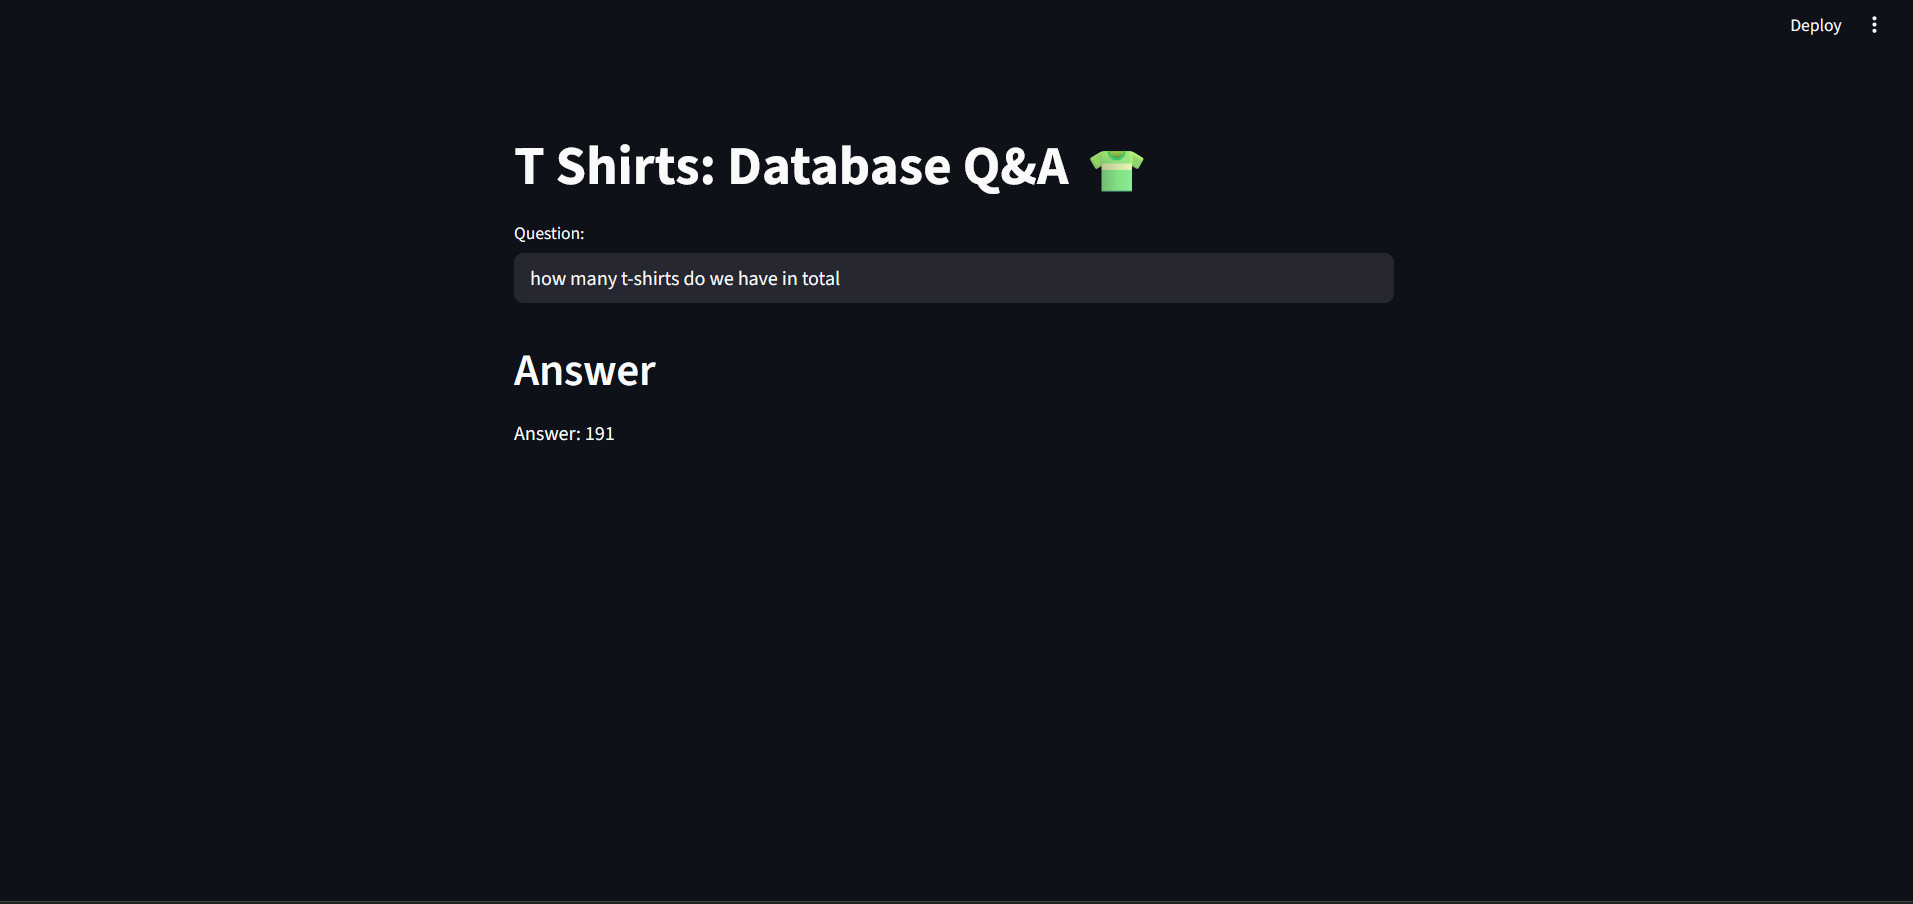
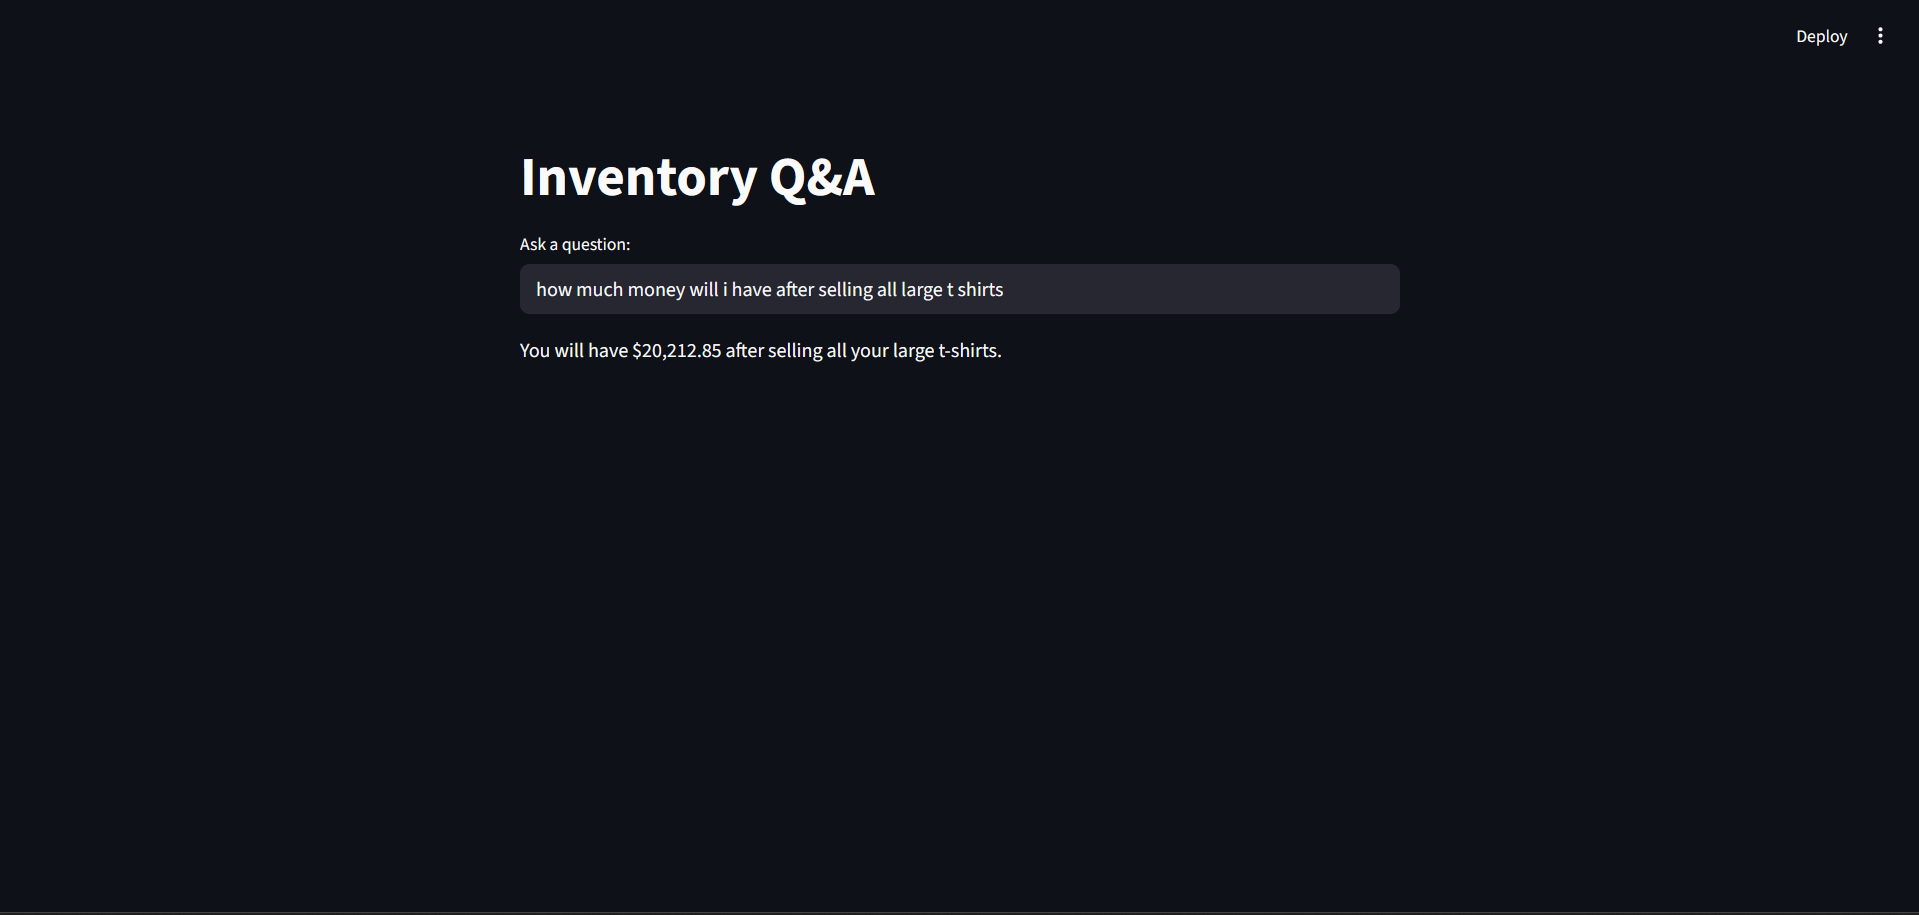
updated main

diff --git a/main.py b/main.py
@@ -1,14 +1,140 @@
+import os
+import re
+import pandas as pd
 import streamlit as st
-from langchain_helper import get_few_shot_db_chain
+from dotenv import load_dotenv
+from sqlalchemy import create_engine
+from langchain_google_genai import ChatGoogleGenerativeAI
 
-st.title("T Shirts: Database Q&A 👕")
+# -----------------------------
+# Load API key and DB connection
+# -----------------------------
+load_dotenv()
+API_KEY = os.getenv("GOOGLE_API_KEY")
 
-question = st.text_input("Question: ")
+DB_USER = "root"
+DB_PASSWORD = "root"
+DB_HOST = "localhost"
+DB_NAME = "atliq_tshirts"
+
+engine = create_engine(f"mysql+pymysql://{DB_USER}:{DB_PASSWORD}@{DB_HOST}/{DB_NAME}")
+
+# -----------------------------
+# Initialize LLM
+# -----------------------------
+llm = ChatGoogleGenerativeAI(
+    model="gemini-1.5-flash",
+    google_api_key=API_KEY,
+    temperature=0.2
+)
+
+# -----------------------------
+# Database schema for LLM (with revenue instructions)
+# -----------------------------
+SCHEMA = """
+You are an expert SQL generator. The database schema is:
+
+Table: t_shirts
+- t_shirt_id (INT, PK)
+- brand (VARCHAR)
+- size (VARCHAR)
+- color (VARCHAR)
+- price (DECIMAL)
+- stock_quantity (INT)
+
+Table: discounts
+- t_shirt_id (INT, FK to t_shirts)
+- pct_discount (DECIMAL)
+
+Instructions:
+- Always use correct table and column names.
+- Write valid MySQL queries only.
+- If the question asks about revenue **after discounts**, calculate:
+      revenue = price * stock_quantity * (1 - pct_discount/100)
+- Always join t_shirts and discounts when needed.
+- Return SQL only, no explanations.
+"""
+
+# -----------------------------
+# Size mapping
+# -----------------------------
+SIZE_MAPPING = {
+    "extra small": "XS",
+    "xs": "XS",
+    "small": "S",
+    "s": "S",
+    "medium": "M",
+    "m": "M",
+    "large": "L",
+    "l": "L",
+    "extra large": "XL",
+    "xl": "XL"
+}
+
+def normalize_sizes(question):
+    """Replace natural size words with exact DB values"""
+    question_lower = question.lower()
+    for word, val in SIZE_MAPPING.items():
+        if word in question_lower:
+            question = re.sub(word, val, question, flags=re.IGNORECASE)
+    return question
+
+# -----------------------------
+# SQL generation & cleaning
+# -----------------------------
+def clean_sql(sql_text):
+    """Remove Markdown fences from LLM output"""
+    match = re.search(r"```(?:sql)?\s*(.*?)\s*```", sql_text, re.DOTALL | re.IGNORECASE)
+    if match:
+        return match.group(1).strip()
+    return sql_text.strip()
+
+def get_sql_query(question):
+    question = normalize_sizes(question)  # normalize sizes first
+    prompt = SCHEMA + f"\n\nQuestion: {question}"
+    response = llm.predict(prompt)
+    sql_query = clean_sql(response)
+    return sql_query
+
+# -----------------------------
+# Execute SQL
+# -----------------------------
+def execute_sql(sql_query):
+    try:
+        df = pd.read_sql(sql_query, engine)
+        return df
+    except Exception as e:
+        return f"Error executing SQL: {e}"
+
+# -----------------------------
+# Generate human-readable answer
+# -----------------------------
+def generate_answer(question, sql_result):
+    if isinstance(sql_result, pd.DataFrame):
+        if sql_result.empty:
+            summary = "No results"
+        else:
+            # If single numeric value, show that; otherwise show first few rows
+            if sql_result.shape[1] == 1 and sql_result.shape[0] == 1:
+                summary = sql_result.iloc[0, 0]
+            else:
+                summary = sql_result.head(5).to_dict(orient="records")
+    else:
+        summary = str(sql_result)
+    prompt = f"Generate a human-readable answer for the question: '{question}' using the result: {summary}"
+    response = llm.predict(prompt)
+    return response
+
+# -----------------------------
+# Streamlit interface
+# -----------------------------
+st.title("Inventory Q&A")
+
+question = st.text_input("Ask a question:")
 
 if question:
-    chain = get_few_shot_db_chain()
-    response = chain({"query": question})  # <-- pass as dict
-    answer = response["result"]             # <-- extract the final answer
-
-    st.header("Answer")
-    st.write(answer)
+    with st.spinner("Generating answer..."):
+        sql_query = get_sql_query(question)
+        result = execute_sql(sql_query)
+        answer_text = generate_answer(question, result)
+        st.write(answer_text)

diff --git a/README.md b/README.md
@@ -1,55 +1,61 @@
 # database-qa
 
-A simple Streamlit app that lets you ask questions to your SQL database and get answers in natural language. Built using LangChain and Google Gemini for LLM-powered SQL querying.
+A simple Streamlit app that lets you ask questions to your SQL database and get answers in natural language.  
+Powered by Google Gemini for SQL generation.
 
 ![App Screenshot](sample.png)
 
 ## Features
-- Ask natural language questions about your database and get readable answers.
-- Few-shot examples to guide the model for more accurate answers.
-- Connects to any MySQL database.
-- Returns clear, readable answers even if the SQL result is empty.
+- Ask natural language questions about your MySQL database.
+- Automatically generates and executes SQL queries.
+- Handles revenue calculations (including discounts) automatically.
+- Returns clear, human-readable answers (not just raw tables).
+- Simple `.env` setup for API keys and secure database connection.
 
 ## Files
-- main.py – Streamlit interface for entering questions and displaying answers.
-- langchain_helper.py – Sets up the LangChain SQLDatabaseChain with a Google Gemini model, embeddings, and few-shot prompts.
-- few_shots.py – Provides example question/SQL/answer pairs to guide the model.
+- **main.py** – The complete Streamlit app (LLM, SQL execution, interface).
 
 ## Installation
 1. Clone the repo:
-git clone https://github.com/your-username/database-qa.git
-cd database-qa
+   git clone https://github.com/Alii-Jaffal/sql-qa-assistant.git
+   cd database-qa
 
 2. Create and activate a virtual environment:
-python -m venv venv
-source venv/bin/activate  # Linux/Mac
-venv\Scripts\activate     # Windows
+   python -m venv venv
+   source venv/bin/activate   # Linux/Mac
+   venv\Scripts\activate      # Windows
 
 3. Install dependencies:
-pip install -r requirements.txt
+   pip install -r requirements.txt
 
-4. Create a .env file and add your Google API key:
-GOOGLE_API_KEY=your_api_key_here
+4. Create a `.env` file and add your Google API key:
+   GOOGLE_API_KEY=your_api_key_here
 
-5. Make sure your MySQL database is running and accessible. Update credentials in langchain_helper.py if needed.
+5. Make sure your MySQL database (`atliq_tshirts`) is running and accessible.  
+   Update the database credentials inside **main.py** if needed.
 
 ## Usage
 Run the Streamlit app:
 streamlit run main.py
 
+
 - Enter your question in the input box.
-- The app will generate the SQL query, run it on your database, and return a clear natural language answer.
+- The app will:
+  1. Generate a valid SQL query.
+  2. Run it on your MySQL database.
+  3. Return a natural language answer.
 
 ## Notes
-- The app uses few-shot learning to improve SQL query generation. Adding more examples in few_shots.py can make answers more accurate.
-- Works with any MySQL database; just update the connection string in langchain_helper.py.
-- .env is used to keep API keys private. Make sure .env is in .gitignore.
-- __pycache__ is automatically generated by Python and should be ignored in Git.
+- Works with any MySQL database if you adjust the schema in `SCHEMA`.
+- The app cleans LLM output (removes Markdown fences) before execution.
+- `.env` is used to keep API keys private (make sure `.env` is in `.gitignore`).
+- `__pycache__` is automatically generated by Python and should be ignored.
 
 ## Example Questions
-- How many records meet certain criteria?
-- What is the total value of a column for certain rows?
-- How much will be generated if specific conditions are applied?
+- Show me the total revenue after discounts.  
+- How many T-shirts are in stock by brand?  
+- List all available colors for size L.  
+- Which T-shirt has the highest discount?  
 
 ## License
 This project is open-source and free to use.
